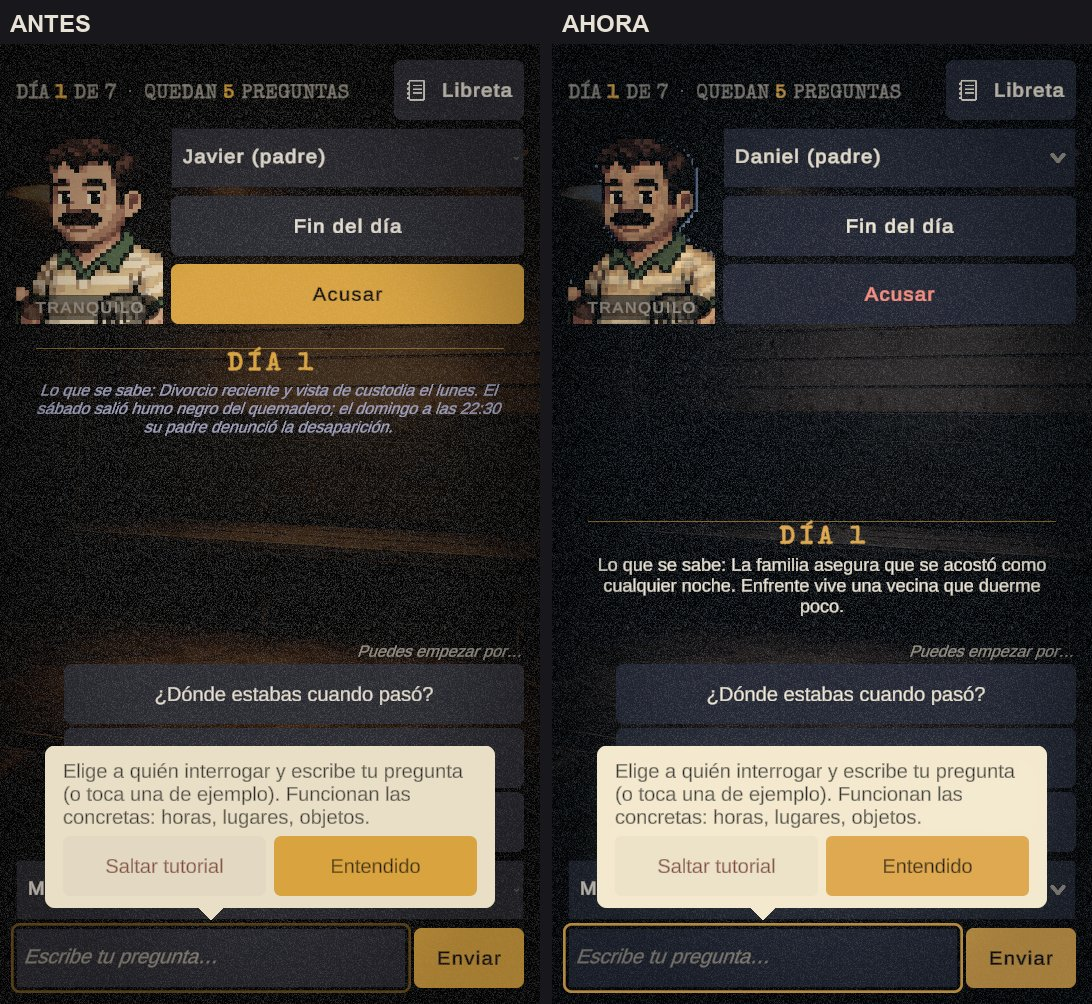
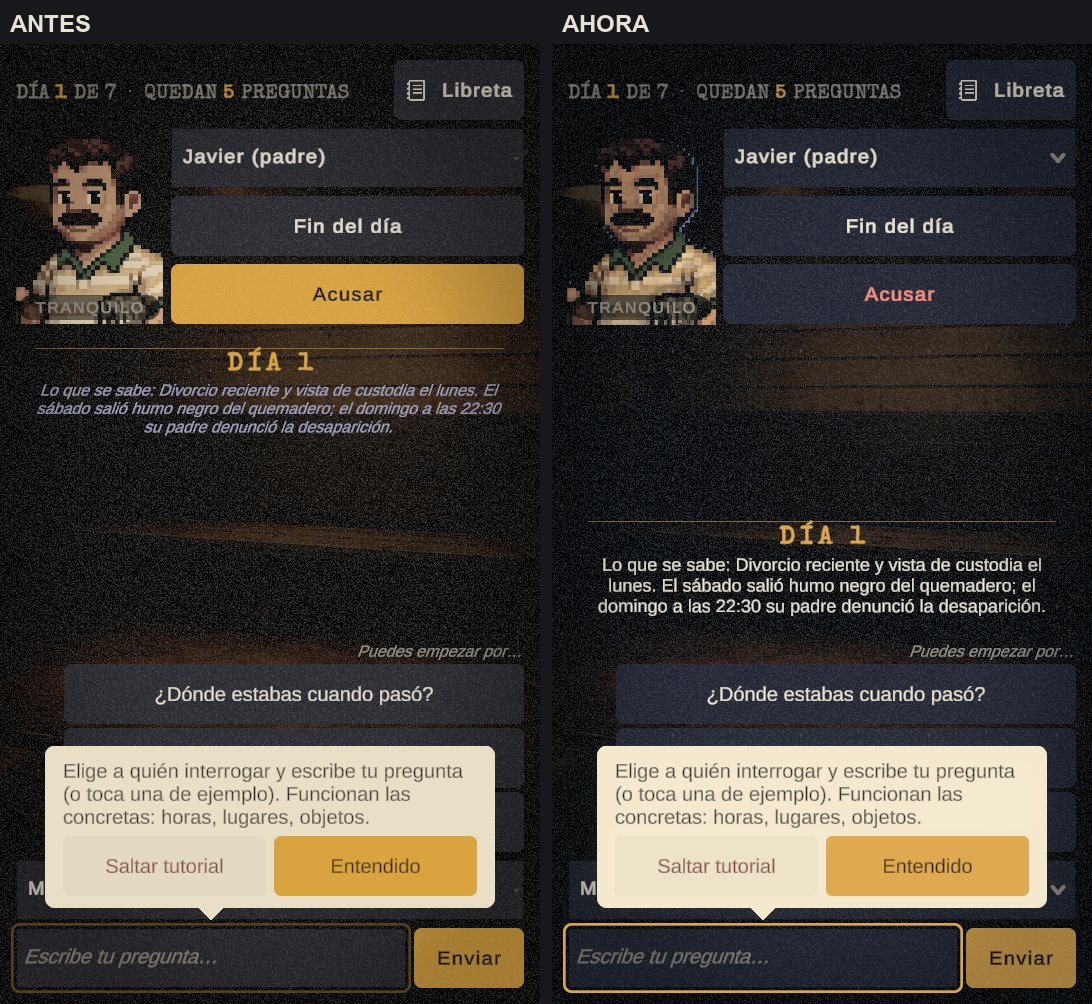
Capture and gallery sheet 25: the notebook tutorial tip
Claude-Session: https://claude.ai/code/session_01KEoVtmbGPQRPnhweMQeCc5

diff --git a/Assets/Tests/PlayMode/AnimationCapture.cs b/Assets/Tests/PlayMode/AnimationCapture.cs
@@ -579,6 +579,14 @@ public class AnimationCapture
         fx.Hint(Tutorial.TextOf(Tutorial.Days), (RectTransform)Find("EndDayButton").transform, null, null);
         yield return new WaitForSecondsRealtime(0.6f);
         Shot("tutorial_dias");
+        Find("Indicacion (auto)")?.SetActive(false);
+        yield return Click("ViewCluesButton");
+        yield return new WaitForSecondsRealtime(0.6f);
+        fx.Hint(Tutorial.TextOf(Tutorial.Versions), (RectTransform)Find("CloseCluesButton").transform, null, null);
+        yield return new WaitForSecondsRealtime(0.6f);
+        Shot("tutorial_versiones");
+        Find("Indicacion (auto)")?.SetActive(false);
+        yield return Click("CloseCluesButton");
 
         Find("Indicacion (auto)")?.SetActive(false);
         Find("EndDayButton").GetComponent<Button>().onClick.Invoke();

diff --git a/Tools/make_gallery_dia3.py b/Tools/make_gallery_dia3.py
@@ -20,7 +20,7 @@ SCREENS = [
     ('12_dialogo', 'dialogo_reiniciar'), ('13_texto_grande', 'texto_grande_interrogatorio'),
     ('14_alto_contraste', 'alto_contraste_interrogatorio'), ('15_emocion', 'emocion_nervioso_1500'),
     ('16_pista', 'pista_1800'), ('17_contradiccion', 'contradiccion_1900'), ('18_tutorial', 'tutorial_preguntar'),
-    ('21_ficha_policial', 'veredicto_ficha'), ('24_libreta_partes', 'libreta_partes'),
+    ('21_ficha_policial', 'veredicto_ficha'), ('24_libreta_partes', 'libreta_partes'), ('25_tutorial_libreta', 'tutorial_versiones'),
 ]
 
 

diff --git a/docs/REPORT-DIA3.md b/docs/REPORT-DIA3.md
@@ -45,7 +45,7 @@ jugador nuevo) hasta ~22:00; informe final; limpiar el worktree temporal.
 6. **Bloqueante para Android:** ningún proveedor LLM funciona tal cual en el móvil (decisión 1). APK sin generar (falta el módulo).
 
 ## 2. Galería antes / después
-`docs/screenshots/2026-09-30/galeria/` (24 hojas; se regeneran con `python Tools/make_gallery_dia3.py`).
+`docs/screenshots/2026-09-30/galeria/` (25 hojas; se regeneran con `python Tools/make_gallery_dia3.py`).
 "Antes" = capturas del comienzo del bloque C (visualmente, el final de la noche 2).
 
 | Hoja | Qué cambia |
@@ -64,6 +64,7 @@ jugador nuevo) hasta ~22:00; informe final; limpiar el worktree temporal.
 | 20_personajes | Los 7 retratos: plano 2D frente a relieve 2.5D |
 | 23_notas | Nuevo: tus notas en la libreta, la rueda que tacha tu descarte y el final que lo recuerda |
 | 24_libreta_partes | Nuevo: los partes de la mañana quedan en la libreta |
+| 25_tutorial_libreta | Nuevo: la indicación de la libreta señala «añadir nota» |
 
 ## 3. Métricas antes / después
 
